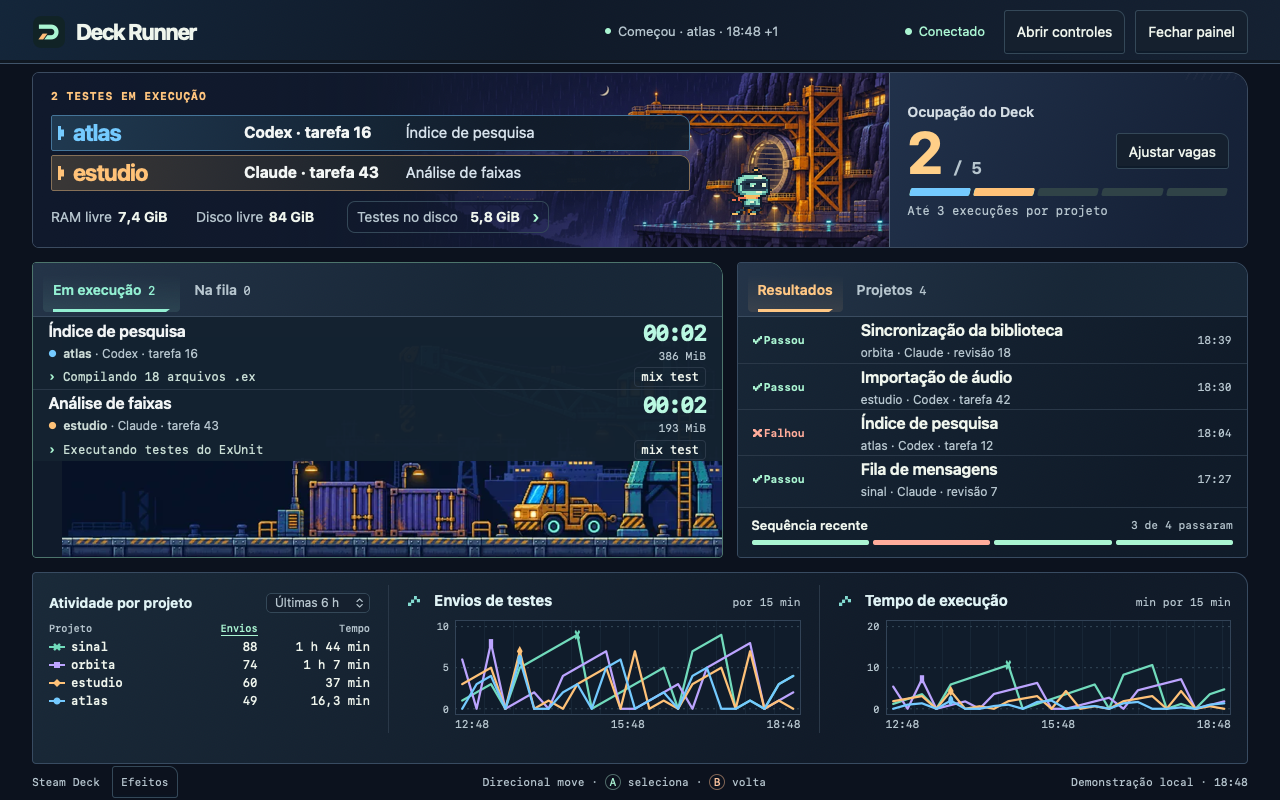
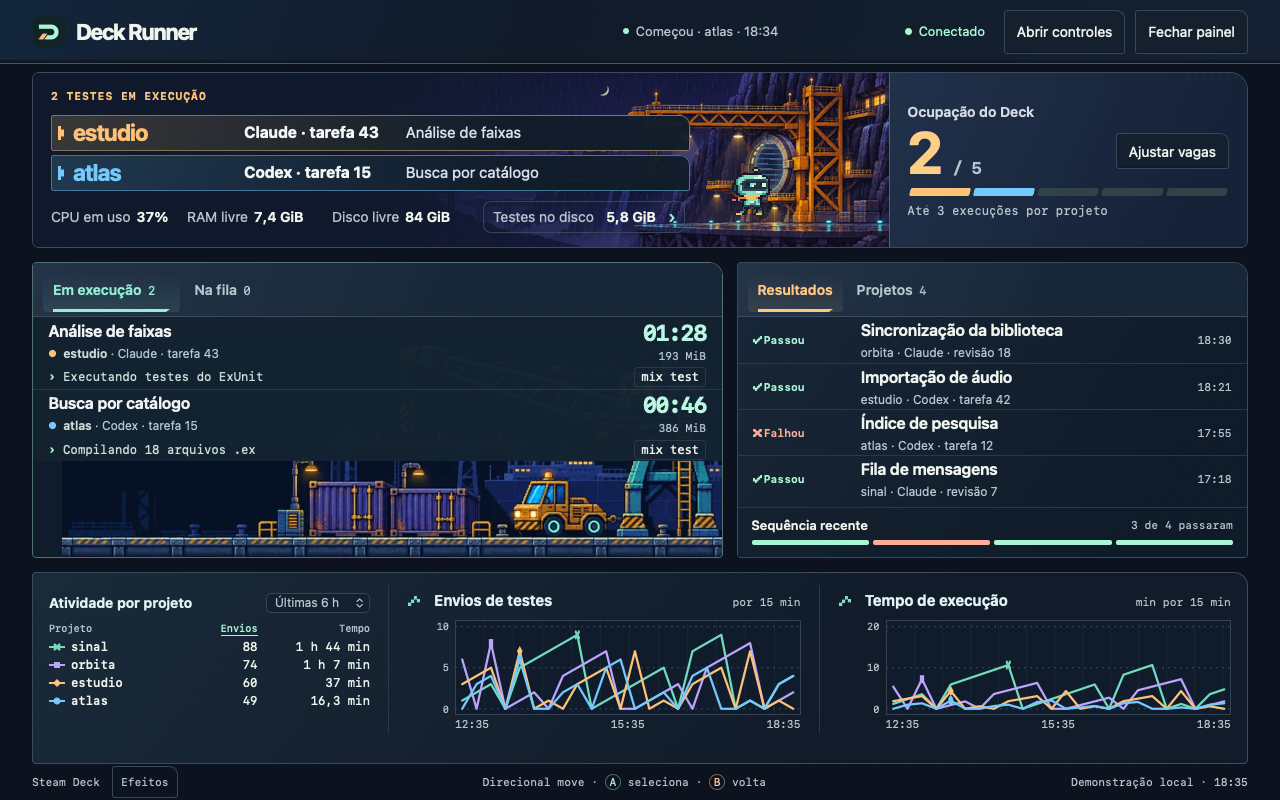
Mostrar o uso de CPU ao lado da memória
O executor compara duas leituras de /proc/stat e publica em /api/status
a parcela ocupada de todos os núcleos (cpu_percent) e o total de núcleos
(cpu_count). Painéis que consultam no mesmo segundo compartilham a
leitura. Um comando avulso espera 0,25 s pela segunda leitura.

O painel e a tela do Deck mostram "CPU em uso" antes da RAM livre, e
`deck-runner status` acrescenta o valor à linha de memória e disco.
Sem /proc/stat ou com um executor anterior, o painel mostra um travessão
e o cliente omite o trecho.

diff --git a/qa/station.test.js b/qa/station.test.js
@@ -33,6 +33,10 @@ test(
       await page.goto(url.href);
       await page.getByRole("heading", { name: "estudio / atlas" }).waitFor();
       assert.equal(await page.locator("#usage").innerText(), "2 / 5");
+      assert.match(
+        await page.locator(".metrics").innerText(),
+        /^CPU em uso\s+37%\s+RAM livre\s+7,4 GiB\s+Disco livre\s+84 GiB/,
+      );
       assert.equal(await page.locator("#history .history-row").count(), 4);
       const segment = page.locator("#trend a").first();
       await segment.click();
@@ -496,6 +500,8 @@ test(
         project_slots: 16,
         projects: names.map((name) => ({ name })),
         reason: "Aguardando memória para a próxima tarefa.",
+        // An executor from before the CPU reading omits the field.
+        cpu_percent: undefined,
         jobs: [
           ...manyJobs(32, "running", 300),
           ...manyJobs(76, "queued", 600),
@@ -521,6 +527,7 @@ test(
       for (const mode of ["?station=1&screen=1", "?station=1"]) {
         await page.goto(url.origin + "/" + mode);
         await page.locator("#usage").getByText("32 / 32").waitFor();
+        assert.equal(await page.locator("#cpu").innerText(), "—");
         for (const [w, h] of [
           [1280, 800],
           [1152, 720],

diff --git a/web/dashboard.js b/web/dashboard.js
@@ -550,6 +550,9 @@ function render() {
       })
       .join("") + bars(0, Math.max(0, data.slots - active.length)),
   );
+  // Older executors and the first reading after a start have no CPU figure.
+  byId("cpu").textContent =
+    data.cpu_percent == null ? "—" : data.cpu_percent + "%";
   byId("ram").textContent = gib(data.available_memory) + " GiB";
   byId("disk").textContent = gib(data.disk_free) + " GiB";
   updateHeadline(active, queued);

diff --git a/web/dashboard.html b/web/dashboard.html
@@ -75,7 +75,8 @@
             </div>
           </div>
           <p class="metrics">
-            <span>RAM livre <b id="ram">—</b></span
+            <span>CPU em uso <b id="cpu">—</b></span
+            ><span>RAM livre <b id="ram">—</b></span
             ><span>Disco livre <b id="disk">—</b></span>
             <button
               id="open-storage"

diff --git a/web/dashboard.css b/web/dashboard.css
@@ -1012,6 +1012,9 @@ footer {
     display: inline-block;
     min-inline-size: 7ch;
   }
+  .metrics #cpu {
+    min-inline-size: 4ch;
+  }
   .activity-y {
     font-size: 10px;
   }

diff --git a/test_runner.py b/test_runner.py
@@ -230,6 +230,53 @@ class QueueTest(unittest.TestCase):
         with patch.object(server, "available_memory", return_value=1):
             self.assertIn("memória", server.gate())
 
+    def test_cpu_usage_compares_two_readings(self):
+        stat = Path(self.temp.name) / "stat"
+        stat.write_text("cpu  100 0 50 800 50 0 0 0 30 0\ncpu0 9 9 9 9 9 9 9 9 9 9\n")
+        # Idle and iowait are free time; guest time is already inside user.
+        self.assertEqual(server.cpu_ticks(stat), (150, 1000))
+        self.enterContext(patch.object(server, "_cpu", None))
+        pause = self.enterContext(patch.object(server.time, "sleep"))
+        clock = self.enterContext(patch.object(server.time, "monotonic", return_value=50))
+        with patch.object(
+            server, "cpu_ticks", side_effect=[(150, 1000), (450, 2000)]
+        ) as ticks:
+            self.assertEqual(server.cpu_usage(), 30)
+            pause.assert_called_once()
+            # Panels that ask again within a second share the same reading.
+            self.assertEqual(server.cpu_usage(), 30)
+            self.assertEqual(ticks.call_count, 2)
+        clock.return_value = 52
+        with patch.object(server, "cpu_ticks", return_value=(1450, 3000)):
+            self.assertEqual(server.cpu_usage(), 100)
+            self.assertEqual(server.status()["cpu_percent"], 100)
+        self.assertEqual(pause.call_count, 1)
+
+    def test_cpu_usage_is_unknown_without_proc_stat(self):
+        self.enterContext(patch.object(server, "_cpu", None))
+        with patch.object(server, "cpu_ticks", side_effect=FileNotFoundError):
+            self.assertIsNone(server.cpu_usage())
+            status = server.status()
+        self.assertIsNone(status["cpu_percent"])
+        self.assertEqual(status["cpu_count"], server.os.cpu_count())
+
+    def test_status_line_shows_cpu_beside_memory(self):
+        status = dict(
+            alive=True, slots=5, project_slots=3, paused=False, reason="", jobs=[],
+            available_memory=int(9.8 * server.GIB), disk_free=56 * server.GIB,
+        )
+        out = io.StringIO()
+        with contextlib.redirect_stdout(out):
+            client.print_status({**status, "cpu_percent": 37, "cpu_count": 8})
+            # A Deck that has not been updated yet reports no CPU reading.
+            client.print_status(status)
+        lines = out.getvalue().splitlines()
+        self.assertEqual(
+            lines[1],
+            "Memória disponível: 9.8 GiB | CPU em uso: 37% de 8 núcleos | disco livre: 56 GiB",
+        )
+        self.assertEqual(lines[3], "Memória disponível: 9.8 GiB | disco livre: 56 GiB")
+
     def test_unsafe_archive_is_rejected(self):
         server.setting("heartbeat", time.time())
         stream = io.BytesIO()

diff --git a/server.py b/server.py
@@ -229,6 +229,38 @@ def available_memory():
     return 0
 
 
+_cpu = None  # busy ticks, total ticks, percentage and time of the last reading
+_cpu_lock = threading.Lock()
+
+
+def cpu_ticks(path="/proc/stat"):
+    with open(path) as source:
+        # Guest time is already inside user and nice.
+        ticks = [int(x) for x in source.readline().split()[1:9]]
+    return sum(ticks) - ticks[3] - ticks[4], sum(ticks)  # Idle and iowait are free.
+
+
+def cpu_usage():
+    """Busy share of all cores, in percent, between two readings of /proc/stat."""
+    global _cpu
+    try:
+        with _cpu_lock:
+            if _cpu is None:
+                # A one-shot `status` has no earlier reading to compare with.
+                _cpu = (*cpu_ticks(), None, float("-inf"))
+                time.sleep(0.25)
+            busy, total, percent, read = _cpu
+            # Panels polling together share one reading; shorter windows are noise.
+            if time.monotonic() - read >= 1:
+                now_busy, now_total = cpu_ticks()
+                if now_total > total:
+                    percent = round(100 * (now_busy - busy) / (now_total - total))
+                _cpu = (now_busy, now_total, percent, time.monotonic())
+            return percent
+    except (OSError, ValueError, IndexError):
+        return None  # No /proc/stat outside Linux.
+
+
 def gate():
     if setting("paused") == "1":
         return "Pausado: tarefas novas aguardam na fila."
@@ -315,6 +347,8 @@ def status():
         reason=reason,
         alive=time.time() - float(setting("heartbeat") or 0) < 15,
         available_memory=available_memory(),
+        cpu_percent=cpu_usage(),
+        cpu_count=os.cpu_count(),
         disk_free=shutil.disk_usage(ROOT).free,
         disk_reserve=storage.RESERVE,
         disk_admit=storage.ADMIT_AT,

diff --git a/client.py b/client.py
@@ -261,8 +261,11 @@ def print_status(s):
         + f" | {s['slots']} vagas, até {s['project_slots']} por projeto | "
         + ("PAUSADO" if s["paused"] else "fila ativa")
     )
+    cpu = s.get("cpu_percent")  # Absent while the Deck runs an older executor.
     print(
-        f"Memória disponível: {s['available_memory'] / 1024**3:.1f} GiB | disco livre: {s['disk_free'] / 1024**3:.0f} GiB"
+        f"Memória disponível: {s['available_memory'] / 1024**3:.1f} GiB | "
+        + (f"CPU em uso: {cpu}% de {s['cpu_count']} núcleos | " if cpu is not None else "")
+        + f"disco livre: {s['disk_free'] / 1024**3:.0f} GiB"
     )
     if s["reason"]:
         print(s["reason"])

diff --git a/scripts/preview.py b/scripts/preview.py
@@ -76,6 +76,8 @@ def sample(state):
         max_slots=MAX_SLOTS,
         project_slots=3,
         available_memory=int(7.4 * 1024**3),
+        cpu_percent=37,
+        cpu_count=8,
         disk_free=84 * 1024**3,
         disk_reserve=10 * 1024**3, disk_admit=15 * 1024**3,
         instance="preview",

diff --git a/DESIGN.md b/DESIGN.md
@@ -10,7 +10,7 @@ A estação acompanha testes a uma distância de braço, em uma tela de 1280 × 
 | Marca | Traço de retorno aberto com um segundo traço âmbar. O mesmo desenho identifica o lançador no Plasma, a aba do navegador e o cabeçalho. |
 | Tipografia | Fonte de interface do sistema, com Inter quando disponível. Números e diagnósticos em fonte monoespaçada. Os recursos visuais são locais. |
 | Estabilidade visual | Em cada tamanho de tela, a altura das linhas, a área dos avisos, a largura dos eixos e o espaço dos gráficos são definidos pelo layout. A janela do log mantém os botões no lugar enquanto o cabeçalho e a saída rolam separadamente. |
-| Atualização | Mudanças na fila chegam por uma conexão de eventos. O cabeçalho mostra o último movimento e seu horário. Uma transição breve destaca a linha que mudou, com suporte a movimento reduzido. Leituras periódicas atualizam RAM e logs e cobrem reconexões. |
+| Atualização | Mudanças na fila chegam por uma conexão de eventos. O cabeçalho mostra o último movimento e seu horário. Uma transição breve destaca a linha que mudou, com suporte a movimento reduzido. Leituras periódicas atualizam CPU, RAM e logs e cobrem reconexões. |
 | Movimento | A fila tem um pulso âmbar. A partida cruza a linha da tarefa e traz o piloto. O placar de aprovação salta, o de falha freia. A camada visual preserva o foco e a geometria das listas. [Intensidade e sequência de eventos](docs/motion.md). |
 | Gráficos por projeto | Duas séries temporais alinhadas em 24 intervalos, uma escala vertical comum a todos os projetos em cada gráfico e a mesma cor por cadastro nas linhas e na tabela de totais. |
 | Interação | Em paisagem, as listas paginam pelo número de linhas que cabe no espaço entre a ocupação e os gráficos. As setas preservam a página durante as leituras da fila. Em formato de telefone as seções ficam empilhadas. No modo de operação, filtro, pausa, logs e cancelamento têm nomes explícitos e foco visível. |

diff --git a/docs/architecture.md b/docs/architecture.md
@@ -29,7 +29,7 @@ O serviço mantém um repositório Git por projeto, uma referência por tarefa e
 | Cancelado ou interrompido | Houve um pedido de cancelamento ou o serviço reiniciou com a tarefa em andamento. |
 | Expirou ou atingiu limite | O executor encerrou a tarefa por tempo, crescimento do log ou espaço em disco. |
 
-Um observador lê as mudanças de estado confirmadas no SQLite a cada 0,6 s e avisa os painéis conectados por Server-Sent Events. Cada painel busca o estado atual ao receber o aviso ou reconectar. Uma consulta periódica mantém o acompanhamento se o fluxo cair e atualiza memória e logs. O inventário de disco roda separadamente, com uma única medição compartilhada por estação. O Mac pode cair durante uma execução sem retirar sua vaga ou perder o resultado. A identificação da estação, persistida no banco, permite ao diagnóstico confirmar que as conexões SSH e HTTP chegaram ao mesmo Deck.
+Um observador lê as mudanças de estado confirmadas no SQLite a cada 0,6 s e avisa os painéis conectados por Server-Sent Events. Cada painel busca o estado atual ao receber o aviso ou reconectar. Uma consulta periódica mantém o acompanhamento se o fluxo cair e atualiza CPU, memória e logs. O inventário de disco roda separadamente, com uma única medição compartilhada por estação. O Mac pode cair durante uma execução sem retirar sua vaga ou perder o resultado. A identificação da estação, persistida no banco, permite ao diagnóstico confirmar que as conexões SSH e HTTP chegaram ao mesmo Deck.
 
 ## Evidência de operação
 

diff --git a/docs/operations.md b/docs/operations.md
@@ -76,7 +76,7 @@ Em **Testes no disco**, ao lado do disco livre, confira os blocos ocupados pelas
 |---|---|
 | Concorrência | De 1 a 32 no total. O limite por projeto pode ir até o total. Padrão inicial de 5 e 3. |
 | RAM | 1,25 / 2,5 / 5 GiB por tarefa. A reserva conjunta parte de 7,5 GiB e cresce com as vagas, limitada a 512 MiB abaixo do teto dos containers. O grupo pode usar até 80% da RAM física. A fila também desconta as reservas pendentes e preserva 1,5 GiB disponíveis para o sistema. |
-| CPU | Até 3 CPUs lógicas por tarefa e 5 para o conjunto |
+| CPU | Até 3 CPUs lógicas por tarefa e 5 para o conjunto. **CPU em uso**, no painel e em `deck-runner status`, é a parcela ocupada de todos os núcleos do Deck entre duas leituras, incluindo o que roda fora dos testes |
 | Disco | Reserva de 10 GiB. Abaixo de 15 GiB, novos envios são recusados e a fila aguarda espaço. A 12 GiB, envios e execuções em andamento são interrompidos para dar margem ao sistema |
 | Retenção | Worktrees por 24 horas, logs e referências das tarefas por 7 dias. O histórico de resultados continua em SQLite |
 
